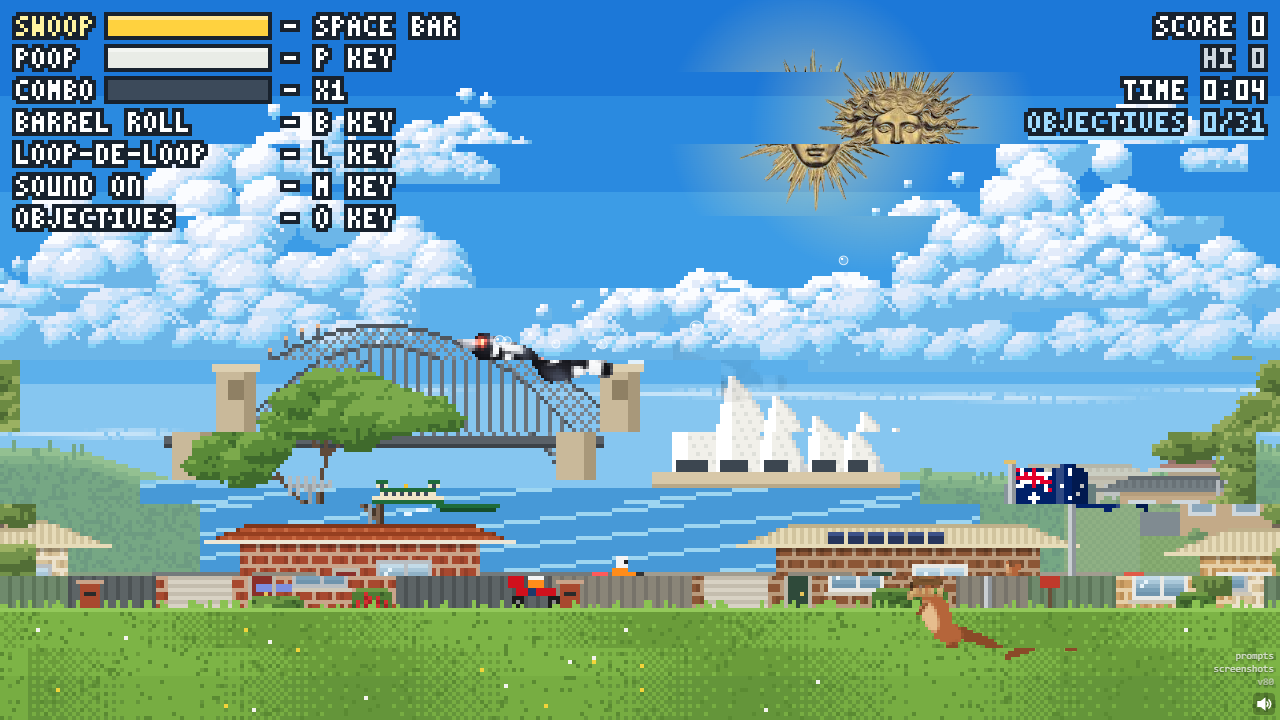
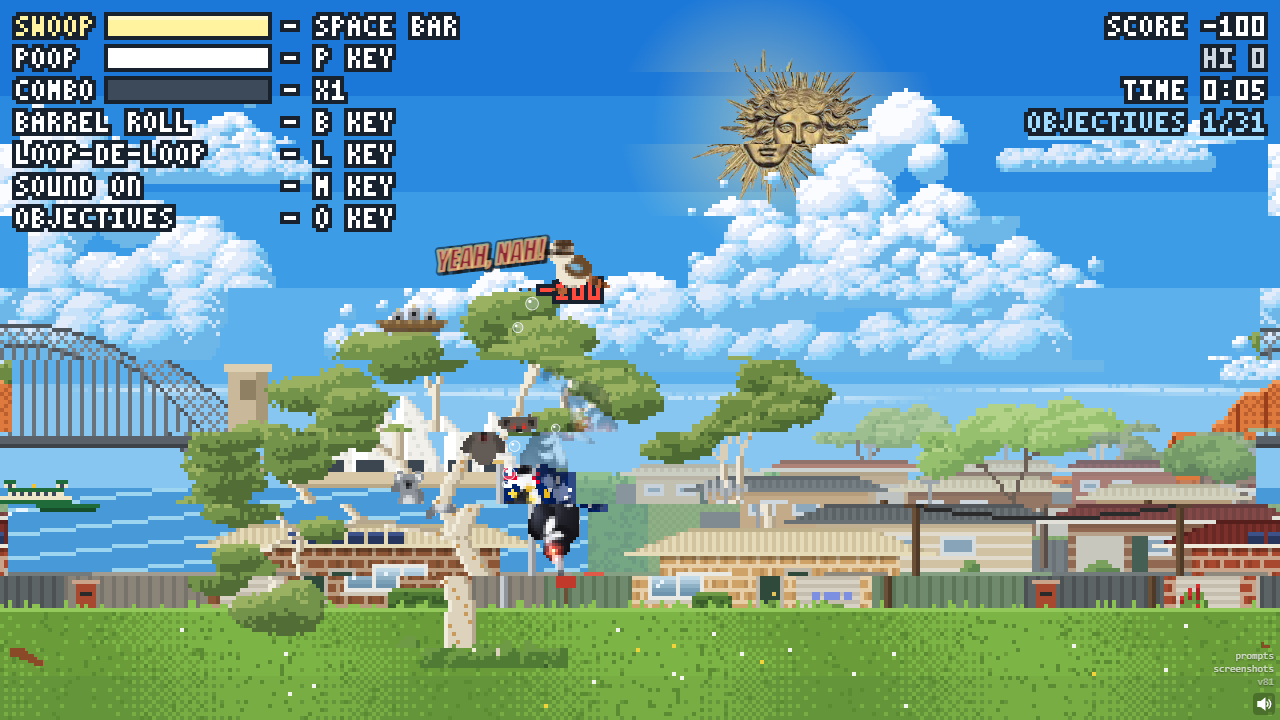
Calmer, slower drunk glitch; echoes on their own layer so all 3 show (v82)

diff --git a/js/draw.js b/js/draw.js
@@ -93,7 +93,7 @@ let shownZoom = 1;                // the zoom last set on the canvases
 let shownGlare = '';              // the overexposure last set on the background canvases
 // Drunk glitch: every so often the game (not the key hints and score) is cut into 10 strips across
 // the screen that jolt sideways, alternate ways and by different amounts, then slide back
-const GLITCH = { at: -9, next: 0, amp: [] }, GLITCH_STRIPS = 10, GLITCH_OUT = 0.07, GLITCH_BACK = 0.22;
+const GLITCH = { at: -9, next: 0, amp: [] }, GLITCH_STRIPS = 10, GLITCH_OUT = 0.07, GLITCH_BACK = 0.4;
 const glitchTmp = makeCanvas(1, 1), gtctx = glitchTmp.getContext('2d');
 function glitchShift(i) {                                            // how far strip i is shifted right now, in game pixels
   const t = time - GLITCH.at, f = t < 0 ? 0 : t < GLITCH_OUT ? t / GLITCH_OUT : Math.max(0, 1 - (t - GLITCH_OUT) / GLITCH_BACK);
@@ -102,7 +102,7 @@ function glitchShift(i) {                                            // how far 
 function updateGlitch(drunk) {
   if (drunk <= 0 || time < GLITCH.next) return;
   GLITCH.at = time; GLITCH.next = time + 0.45 + Math.random() * 0.9;
-  GLITCH.amp = Array.from({ length: GLITCH_STRIPS }, (_, i) => (i % 2 ? 1 : -1) * (3 + Math.random() * 11) * drunk);
+  GLITCH.amp = Array.from({ length: GLITCH_STRIPS }, (_, i) => (i % 2 ? 1 : -1) * (1.5 + Math.random() * 5.5) * drunk);
 }
 function glitchStrips(g, cv, scale) {                                // shift this canvas's strips (scale: its pixels per game pixel)
   if (time - GLITCH.at > GLITCH_OUT + GLITCH_BACK) return;
@@ -133,16 +133,20 @@ const drunkSway = t => drunkLevel() * 0.03 * W * Math.sin(t * 1.8);
 // Echoes (drunk, and spat out of the slingshot): three faint see-through copies of him, each the whole
 // bird, following along his path like traces, each fainter than the last, spaced half his length apart
 const echoPath = [];                                                 // where he's been, newest first, in world pixels
-const ECHOES = 3, ECHO_ALPHA = [0.26, 0.15, 0.07];                 // nearest first
+const ECHOES = 3, ECHO_ALPHA = [0.42, 0.3, 0.18];                  // nearest first
 function recordEchoPath(pose) {
   echoPath.unshift({ x: bird.x, y: bird.y + pose.bob * BIRD_SCALE, pose: { ...pose } });
   if (echoPath.length > 120) echoPath.pop();
 }
 const echoBuf = makeCanvas(1, 1), ectx = echoBuf.getContext('2d');
+const echoLayer = makeCanvas(1, 1), elctx = echoLayer.getContext('2d');   // all the echoes, laid behind him on the front canvas
 function drawEchoTrail(sc, turn, level) {
-  // each echo is drawn whole into its own canvas first, then laid down see-through in one go,
-  // so it's the same bird all over, just fainter (not patchy where his parts overlap)
-  if (echoBuf.width !== birdBuf.width || echoBuf.height !== birdBuf.height) { echoBuf.width = birdBuf.width; echoBuf.height = birdBuf.height; }
+  // Each echo is drawn whole into its own canvas, sharpened into pixels like him, then laid down
+  // see-through in one go on a layer of its own (so it's the same bird all over, just fainter, and
+  // his own sharpening can't wipe it out)
+  for (const c of [echoBuf, echoLayer]) if (c.width !== birdBuf.width || c.height !== birdBuf.height) { c.width = birdBuf.width; c.height = birdBuf.height; }
+  elctx.setTransform(1, 0, 0, 1, 0, 0);
+  elctx.clearRect(0, 0, echoLayer.width, echoLayer.height);
   const span = 1.5 * 95 * BIRD_SCALE * (echoPath[0].pose.stretch || 1);   // 1.5 times his length, in game pixels
   let k = 1, walked = 0;
   for (let i = 1; i < echoPath.length && k <= ECHOES; i++) {
@@ -156,12 +160,13 @@ function drawEchoTrail(sc, turn, level) {
     ectx.setTransform(sc * turn, 0, 0, sc / novaZoom(), (e.x - cam) * K / BIRD_PIX, e.y * K / BIRD_PIX);
     if (e.pose.flip) ectx.rotate(e.pose.flip);
     drawMagpie(ectx, e.pose);
-    bbctx.setTransform(1, 0, 0, 1, 0, 0);
-    bbctx.globalAlpha = ECHO_ALPHA[k - 1] * level;
-    bbctx.drawImage(echoBuf, 0, 0);
+    crispen(ectx, (e.x - cam) * K / BIRD_PIX, e.y * K / BIRD_PIX, Math.ceil(80 * K / BIRD_PIX / 4) * 2);
+    elctx.globalAlpha = ECHO_ALPHA[k - 1] * level;
+    elctx.drawImage(echoBuf, 0, 0);
     k++;
   }
-  bbctx.globalAlpha = 1;
+  elctx.globalAlpha = 1;
+  return true;
 }
 // SOLAR-SLINGSHOT!!!!: the blur of him whipping round the sun. An arc trailing behind him round the
 // circle, growing with his speed until it's a whole blurred grey-white ring
@@ -314,7 +319,7 @@ function drawScene() {
   if (DROPBEAR.state !== 'hidden') drawCharacter(DROPBEAR.x, DROPBEAR.y, 0.42, 1, drawDropBear);
   recordEchoPath(pose);
   const echo = Math.max(drunkLevel(), SLING.out / SLING_OUT);        // drunk, or spat out of the slingshot: his echoes
-  if (echo > 0 && SLING.t <= 0) drawEchoTrail(sc, turn, echo);
+  const echoes = echo > 0 && SLING.t <= 0 && drawEchoTrail(sc, turn, echo);
   if (SLING.t > 0) drawBentMagpie(pose, sc);                         // SOLAR-SLINGSHOT!!!!: bent round the sun
   else {
   bbctx.setTransform(sc * turn, 0, 0, sc / novaZoom(), (bird.x - cam) * K / BIRD_PIX, (bird.y + pose.bob * BIRD_SCALE) * K / BIRD_PIX);   // never taller, even when the game zooms in
@@ -334,6 +339,7 @@ function drawScene() {
   fctx.setTransform(1, 0, 0, 1, 0, 0);
   if (slingBlur() > 0) drawSlingRing();                              // SOLAR-SLINGSHOT!!!!: his blur round the sun, behind him
   fctx.imageSmoothingEnabled = false;
+  if (echoes) fctx.drawImage(echoLayer, 0, 0, echoLayer.width * BIRD_PIX, echoLayer.height * BIRD_PIX);   // his echoes, behind him
   fctx.drawImage(birdBuf, 0, 0, birdBuf.width * BIRD_PIX, birdBuf.height * BIRD_PIX);
   if (bird.inside) drawShopFront(fctx);                          // inside: we see him through the glass
   drawLootAndBubbles(fctx);

diff --git a/index.html b/index.html
@@ -55,7 +55,7 @@
 <canvas id="front"></canvas>
 <a id="prompts" href="prompts.html" target="_blank" rel="noopener">prompts</a>
 <a id="shots" href="screenshots.html" target="_blank" rel="noopener">screenshots</a>
-<div id="ver" title="Version: one for each update published">v81</div>
+<div id="ver" title="Version: one for each update published">v82</div>
 <button id="sound" title="Sound (M)" aria-label="Sound on or off (M)"><svg viewBox="0 0 24 24" width="18" height="18" fill="none" stroke-width="2" stroke-linecap="round">
   <path d="M4 9h4l5-4v14l-5-4H4z" fill="#fff" stroke="#fff"/><path class="waves" d="M16 9a4 4 0 0 1 0 6M18.5 6.5a7.5 7.5 0 0 1 0 11"/>
   <path class="cross" d="M16.5 9.5l5 5M21.5 9.5l-5 5"/></svg></button>

diff --git a/PROMPTS.md b/PROMPTS.md
@@ -873,10 +873,15 @@
 
 - When he's drunk, can we have the sounds echo
 
+## 182. Calmer glitch, visible echoes
+
+- The glitch is still too much: make it 50% less movement and slower to shift back
+- The echo shadow birds are now invisible: I want 3 following him, the full bird, faint but all visible
+
 ## Sessions
 
 | # | Date | Length | What we did |
 |---|------|--------|-------------|
 | 1 | 2026-10-21 | about 740 min so far | Prompts 1–145: the first build, then the smooth sun and magpie, billowy clouds, hills with Aussie icons, the swoop bar, blur and afterburner, the poop bar, distant hills, a deep suburb with a clear view of the harbour, the BOTTLE-O, the screenshots page, the photo sun, key hints, legs dangling in a swoop, SWOOP-AND-POOP!, barrel rolls and loops, sound and a didgeridoo, fitting the browser width, real-sounding clinks and didgeridoo, SWOOP-AND-LOOP!, a Hills Hoist to ride, controller support, a kangaroo in a cork hat, a big gum with a koala and kookaburra, a flag, a barbie, the postie, a shark, a harbour ferry, a cyclist, a drop bear, cockatoos, a possum, storms, a score, swearing bridge climbers, a poopable postie, losing points, a whirling hoist to hang under, WHIPPER SNIPPER!, BARREL SWOOP!, BEER-BARREL!, a spinning possum, Aussie captions for everything, a performance check, a version number |
 | 2 | 2026-10-23 | about 185 min | Prompts 146–177: the barbie moved between the BOTTLE-O and the Hills Hoist, ROO-DIMENTARY!, a bigger and more common possum, a barrel roll that spins on his axis and bursts forward (two turns), COMBO X shown with the points, the sky in five sharp strips, low wisps of cloud, SOLAR-NOVA! (loop round the sun: white flash, clouds burnt away, the whole game bouncing back), a drunk slide and glitch, the postie's slow-motion somersault, longer swoops, wider poop hits, wider eaves, KANGA-POO!, TRUE-BLUE! (the flag as a cape), stretchy stunts, the sun loop becoming SOLAR-SLINGSHOT!!!! (three times round the sun, flung out at double swoop speed, the game zooming in and bouncing back), a drunk sway with echoes, twin afterburners and a coarser roar out of the slingshot, a speeding-up orbit blurring into a grey-white ring, an overexposed super boost, the bird bent round the sun, a roar building up, a smoky 30-degree wake that hits everything, numbered objectives, the first gameplay video, the flock countdown in pop art, the cape over his back |
-| 3 | 2026-10-24 | about 60 min so far | Prompts 176–181: the flock countdown in pop art, the cape over his back, v80 live, a 1-minute gameplay video, the slingshot white-out with a swelling sun and wider orbit, trailing echoes, a 10-strip drunk glitch, drunk sound echo |
+| 3 | 2026-10-24 | about 70 min so far | Prompts 176–182: the flock countdown in pop art, the cape over his back, v80 live, a 1-minute gameplay video, the slingshot white-out with a swelling sun and wider orbit, trailing echoes, a 10-strip drunk glitch, drunk sound echo, a calmer glitch, echoes that show |
